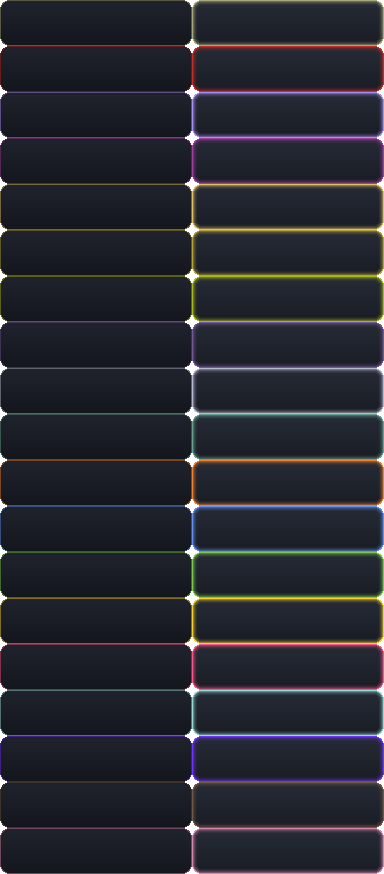
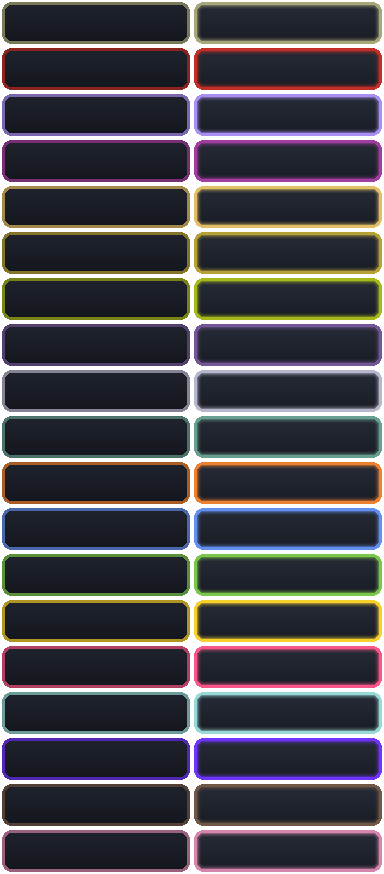
UI de combate: EXP acoplada, botones sin solapes con borde grueso y fuente unificada, ajustes de ficha e iconos

diff --git a/tools/ui/gen_oniria_noir.py b/tools/ui/gen_oniria_noir.py
@@ -60,7 +60,7 @@ def databox(name, side, kind):
     """kind: 'S' (jugador con tab de EXP), 'D' o 'F' (rival)."""
     W, H = 260, (86 if (side == "player" and kind == "S") else 62)
     out = Image.new("RGBA", (W, H), (0, 0, 0, 0)); o = out.load()
-    T, B = 6, (66 if (side == "player" and kind == "S") else 56)
+    T, B = 6, (76 if (side == "player" and kind == "S") else 56)
     bx = 16 if side == "foe" else 34
     def edge(y):
         return 236 + int((y - T) * 0.25) if side == "foe" else 28 - int((y - T) * (0.25 if B > 60 else 0.3))
@@ -96,11 +96,9 @@ def databox(name, side, kind):
     for y in range(y0, y1 + 2): o[x0 - 1, y] = BEVEL; o[x1 + 1, y] = lerp(BEVEL, SILVER, 0.2)
     for x in range(x0 + 1, x1): o[x, y0 + 1] = hexc("000000")
     if side == "player" and kind == "S":                    # pista de EXP
-        for y in range(71, 79):                                # barra de EXP independiente, bajo la caja
+        for y in range(68, 76):                                # barra de EXP acoplada al fondo de la caja
             for x in range(38, 236):
-                o[x, y] = STEEL if x in (38, 235) or y in (71, 78) else hexc("07080B")
-        for x in range(37, 237): o[x, 70] = BEVEL; o[x, 79] = lerp(BEVEL, SILVER, 0.3)
-        for y in range(70, 80): o[37, y] = BEVEL; o[236, y] = BEVEL
+                o[x, y] = STEEL if x in (38, 235) or y in (68, 75) else hexc("07080B")
     save(out, name)
 
 def safari_retone():
@@ -180,17 +178,17 @@ def make_category():
             def f(dr, c, o):
                 pts = []
                 for k in range(16):
-                    r = (8.5 if k % 2 == 0 else 4.2) * S; a = math.pi * k / 8 - math.pi / 2
+                    r = (7.2 if k % 2 == 0 else 3.6) * S; a = math.pi * k / 8 - math.pi / 2
                     pts.append((cx + r * math.cos(a), cy + o + r * math.sin(a)))
                 dr.polygon(pts, fill=c)
         elif i == 1:                                # ondas concéntricas
             def f(dr, c, o):
-                for r, wd in ((8.5, 1.6), (5.2, 1.6)):
+                for r, wd in ((6.6, 1.5), (3.9, 1.5)):
                     dr.ellipse((cx - r * S, cy + o - r * S, cx + r * S, cy + o + r * S), outline=c, width=int(wd * S))
-                dr.ellipse((cx - 1.8 * S, cy + o - 1.8 * S, cx + 1.8 * S, cy + o + 1.8 * S), fill=c)
+                dr.ellipse((cx - 1.4 * S, cy + o - 1.4 * S, cx + 1.4 * S, cy + o + 1.4 * S), fill=c)
         else:                                       # círculo medio relleno (estado)
             def f(dr, c, o):
-                r = 7.5 * S
+                r = 6.6 * S
                 dr.ellipse((cx - r, cy + o - r, cx + r, cy + o + r), outline=c, width=int(1.6 * S))
                 dr.pieslice((cx - r, cy + o - r, cx + r, cy + o + r), 90, 270, fill=c)
         ink(f)
@@ -238,24 +236,28 @@ FONT = os.path.join(ROOT, "Fonts", "pkmnemn.ttf")
 def rrect_mask(w, h, r):
     m = Image.new("L", (w, h), 0); ImageDraw.Draw(m).rounded_rectangle((0, 0, w-1, h-1), radius=r, fill=255); return m
 
-def glow_button(w, h, col, selected, r=9):
-    """Cuerpo grafito; borde luminoso de 1 px que se enciende (con resplandor interior) al seleccionar."""
-    mask = rrect_mask(w, h, r)
-    im = Image.new("RGBA", (w, h), (0, 0, 0, 0)); px = im.load()
+BW = 3   # grosor del borde luminoso
+
+def glow_button(w, h, col, selected, r=9, inset=2):
+    """Cuerpo grafito con borde luminoso de 3 px (más brillante y con resplandor al seleccionar).
+    El botón ocupa la celda menos `inset` px por lado: así las celdas contiguas no se solapan."""
+    cw, ch = w - 2 * inset, h - 2 * inset
+    mask = rrect_mask(cw, ch, r)
+    im = Image.new("RGBA", (cw, ch), (0, 0, 0, 0)); px = im.load()
     top, bot = (hexc("262B36"), hexc("191C24")) if selected else (hexc("1F232D"), hexc("14161D"))
-    rings = [rrect_and_shrink(mask, n, r).load() for n in range(1, 6)]
+    rings = [rrect_and_shrink(mask, n, r).load() for n in range(1, 9)]
     mp = mask.load(); glow = [0.55, 0.32, 0.17, 0.08] if selected else [0.0] * 4
-    k = 1.0 if selected else 0.5
-    for y in range(h):
-        for x in range(w):
+    k = 1.0 if selected else 0.7
+    for y in range(ch):
+        for x in range(cw):
             if mp[x, y] == 0: continue
-            body = lerp(top, bot, y / (h - 1))
-            if rings[0][x, y] == 0:
+            body = lerp(top, bot, y / (ch - 1))
+            if rings[BW - 1][x, y] == 0:
                 px[x, y] = tuple(int(col[i] * k + 13 * (1 - k)) for i in range(3)) + (255,)
             else:
-                d = next((i for i in range(1, 5) if rings[i][x, y] == 0), 5)  # profundidad 1..4
+                d = next((i - BW + 1 for i in range(BW, BW + 4) if rings[i][x, y] == 0), 5)
                 px[x, y] = lerp(body, col, glow[d - 1]) if d <= 4 else body
-    return im
+    out = Image.new("RGBA", (w, h), (0, 0, 0, 0)); out.paste(im, (inset, inset)); return out
 
 def rrect_and_shrink(mask, n, r):
     w, h = mask.size
@@ -281,7 +283,6 @@ def make_command_buttons():
     for i, n in enumerate(names):
         for s in (0, 1):
             b = glow_button(130, 46, hexc(cols[n]), bool(s))
-            label(b, n.replace("2", ""), 0, 130, 46)
             sheet.paste(b, (130 * s, 46 * i))
     save(sheet, "battleCommandButtons")
 

diff --git a/tools/scripts_dump/rem_ui.rb b/tools/scripts_dump/rem_ui.rb
@@ -250,6 +250,7 @@ class PokemonDataBox
     name=@battler.name
     self.bitmap.font.size=27
     self.bitmap.font.size-=1 while self.bitmap.font.size>19 && self.bitmap.text_size(name).width>108
+    namesize=self.bitmap.font.size
     namew=self.bitmap.text_size(name).width
     textpos=[[name,bx+10,8,false,base,shadow]]
     case @battler.displayGender
@@ -258,8 +259,8 @@ class PokemonDataBox
     end
     pbDrawTextPositions(self.bitmap,textpos)
     pbSetNarrowFont(self.bitmap)
-    self.bitmap.font.size=25
-    textpos=[[_INTL("Nv{1}",@battler.level),bx+196,9,true,base,shadow]]
+    self.bitmap.font.size=namesize   # nivel con el mismo tamaño que el nombre
+    textpos=[[_INTL("Nv{1}",@battler.level),bx+196,8,true,base,shadow]]
     if @showhp
       self.bitmap.font.size=20
       textpos.push([_ISPRINTF("{1: 2d}/{2: 2d}",self.hp,@battler.totalhp),bx+196,47,true,base,shadow])
@@ -303,12 +304,40 @@ class PokemonDataBox
     self.bitmap.fill_rect(bx+hpGaugeX,hpGaugeY+2,hpgauge,4,hpcolors[hpzone*2+1])
     if @showexp
       expGaugeX=PokeBattle_SceneConstants::EXPGAUGE_X
-      expGaugeY=73   # barra independiente bajo la caja (pista dibujada en el PNG)
+      expGaugeY=70   # barra acoplada al fondo de la caja (pista dibujada en el PNG)
       self.bitmap.fill_rect(bx+expGaugeX,expGaugeY,self.exp,2,PokeBattle_SceneConstants::EXPCOLORSHADOW)
       self.bitmap.fill_rect(bx+expGaugeX,expGaugeY+2,self.exp,2,PokeBattle_SceneConstants::EXPCOLORBASE)
     end
     @remEdges=REM_UI.edges(@databox.bitmap,foe) if !@remEdges
     REM_UI.drawTypeStripe(self.bitmap,@remEdges,foe,[@battler.type1,@battler.type2])
+  end
+end
+
+# Botones de comando: texto dibujado con la misma fuente estrecha que los ataques (Luchar, Mochila...).
+class CommandMenuButtons
+  REM_LABELS=["Luchar","Pokémon","Mochila","Huir","Llamar","Ball","Roca","Cebo","Ball"]
+  def refresh(index,mode=0)
+    self.bitmap.clear
+    @mode=mode
+    cmdarray=[0,2,1,3]
+    case @mode
+    when 1 then cmdarray=[0,2,1,4]
+    when 2 then cmdarray=[5,7,6,3]
+    when 3 then cmdarray=[0,8,1,3]
+    end
+    pbSetNarrowFont(self.bitmap)
+    textpos=[]
+    [false,true].each{|sel|
+      for i in 0...4
+        next if (i==index)!=sel
+        x=((i%2)==0) ? 0 : 130
+        y=((i/2)==0) ? 4 : 50
+        self.bitmap.blt(x,y,@buttonbitmap.bitmap,Rect.new(sel ? 130 : 0,cmdarray[i]*46,130,46))
+        textpos.push([_INTL(REM_LABELS[cmdarray[i]]),x+65,y+10,2,
+           PokeBattle_SceneConstants::MENUBASECOLOR,PokeBattle_SceneConstants::MENUSHADOWCOLOR])
+      end
+    }
+    pbDrawTextPositions(self.bitmap,textpos)
   end
 end
 
@@ -349,7 +378,7 @@ class PokeBattle_Scene
        [_INTL("Precisión"),200,4,2,dim,shadow]])
     bmp.font.size=26
     pbDrawTextPositions(bmp,[[pw,120,19,2,base,shadow],[ac,200,19,2,base,shadow]])
-    bmp.font.size=18
+    bmp.font.size=20
     lines=REM_UI.wrap(bmp,pbGetMessage(MessageTypes::MoveDescriptions,move.id),216)
     if lines.length>4
       lines=lines[0,4]
@@ -357,7 +386,7 @@ class PokeBattle_Scene
     end
     textpos=[]
     for i in 0...lines.length
-      textpos.push([lines[i],12,60+i*19,0,base,shadow])
+      textpos.push([lines[i],12,58+i*19,0,base,shadow])
     end
     pbDrawTextPositions(bmp,textpos)
     loop do

diff --git a/tools/scripts_dump/src/087_PokeBattle_Scene.rb b/tools/scripts_dump/src/087_PokeBattle_Scene.rb
@@ -196,14 +196,14 @@ class CommandMenuButtons < BitmapSprite
     end
     for i in 0...4
       next if i==index
-      x=((i%2)==0) ? 0 : 126
-      y=((i/2)==0) ? 6 : 48
+      x=((i%2)==0) ? 0 : 130
+      y=((i/2)==0) ? 4 : 50
       self.bitmap.blt(x,y,@buttonbitmap.bitmap,Rect.new(0,cmdarray[i]*46,130,46))
     end
     for i in 0...4
       next if i!=index
-      x=((i%2)==0) ? 0 : 126
-      y=((i/2)==0) ? 6 : 48
+      x=((i%2)==0) ? 0 : 130
+      y=((i/2)==0) ? 4 : 50
       self.bitmap.blt(x,y,@buttonbitmap.bitmap,Rect.new(130,cmdarray[i]*46,130,46))
     end
   end
@@ -401,8 +401,8 @@ class FightMenuButtons < BitmapSprite
     for i in 0...4
       next if i==index
       next if moves[i].id==0
-      x=((i%2)==0) ? 4 : 192
-      y=((i/2)==0) ? 6 : 48
+      x=((i%2)==0) ? 2 : 194
+      y=((i/2)==0) ? 4 : 50
       y+=UPPERGAP
       self.bitmap.blt(x,y,@buttonbitmap.bitmap,Rect.new(0,moves[i].type*46,192,46))
       textpos.push([_INTL("{1}",moves[i].name),x+96,y+10,2,
@@ -418,8 +418,8 @@ class FightMenuButtons < BitmapSprite
     for i in 0...4
       next if i!=index
       next if moves[i].id==0
-      x=((i%2)==0) ? 4 : 192
-      y=((i/2)==0) ? 6 : 48
+      x=((i%2)==0) ? 2 : 194
+      y=((i/2)==0) ? 4 : 50
       y+=UPPERGAP
       self.bitmap.blt(x,y,@buttonbitmap.bitmap,Rect.new(192,moves[i].type*46,192,46))
       self.bitmap.blt(416,8+UPPERGAP,@typebitmap.bitmap,Rect.new(0,moves[i].type*28,64,28))
